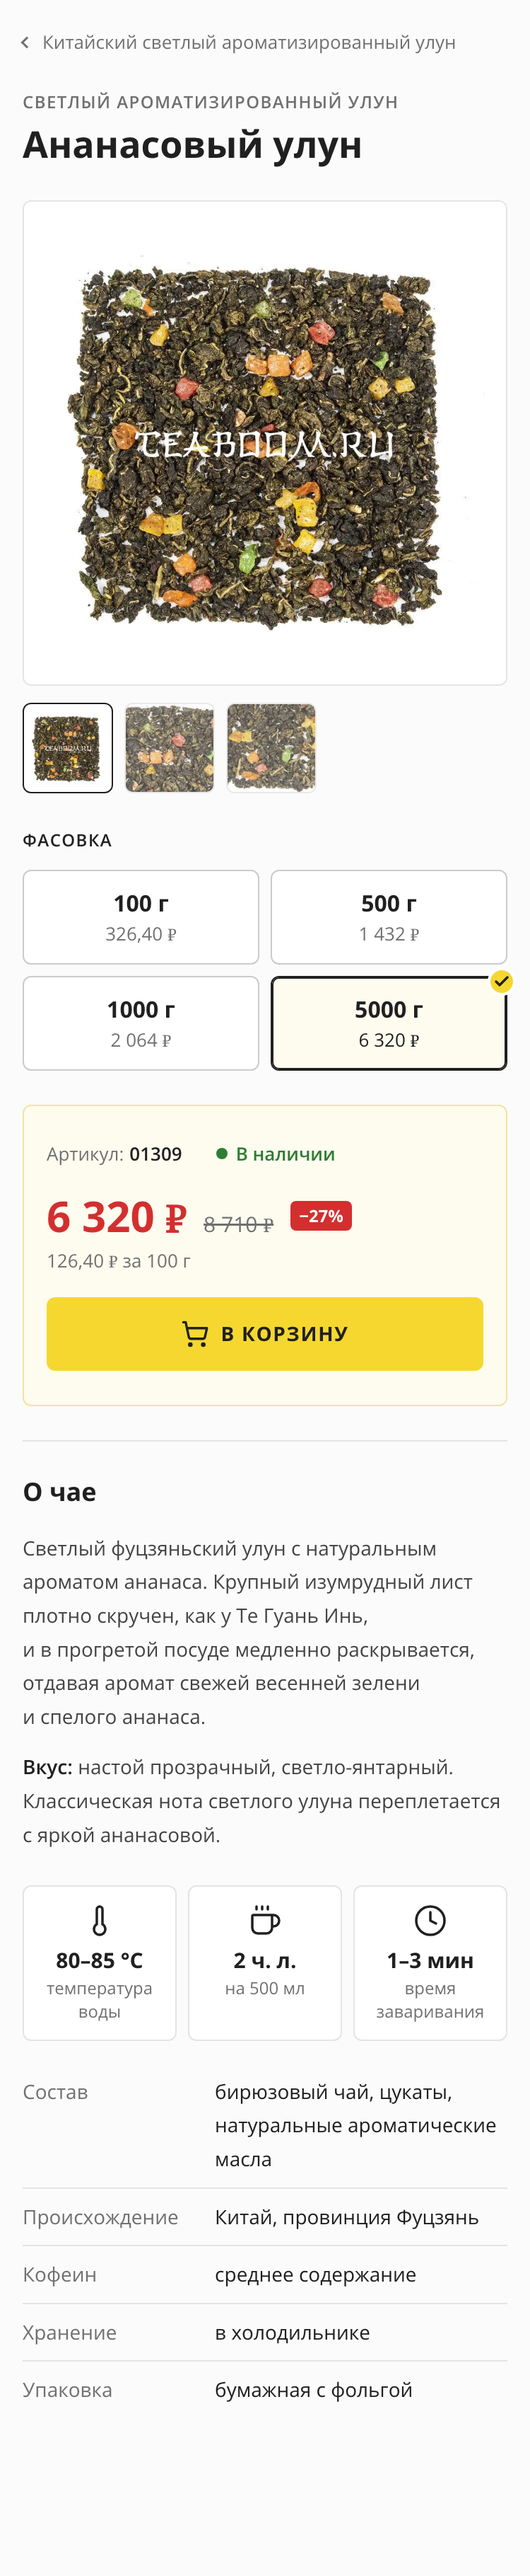
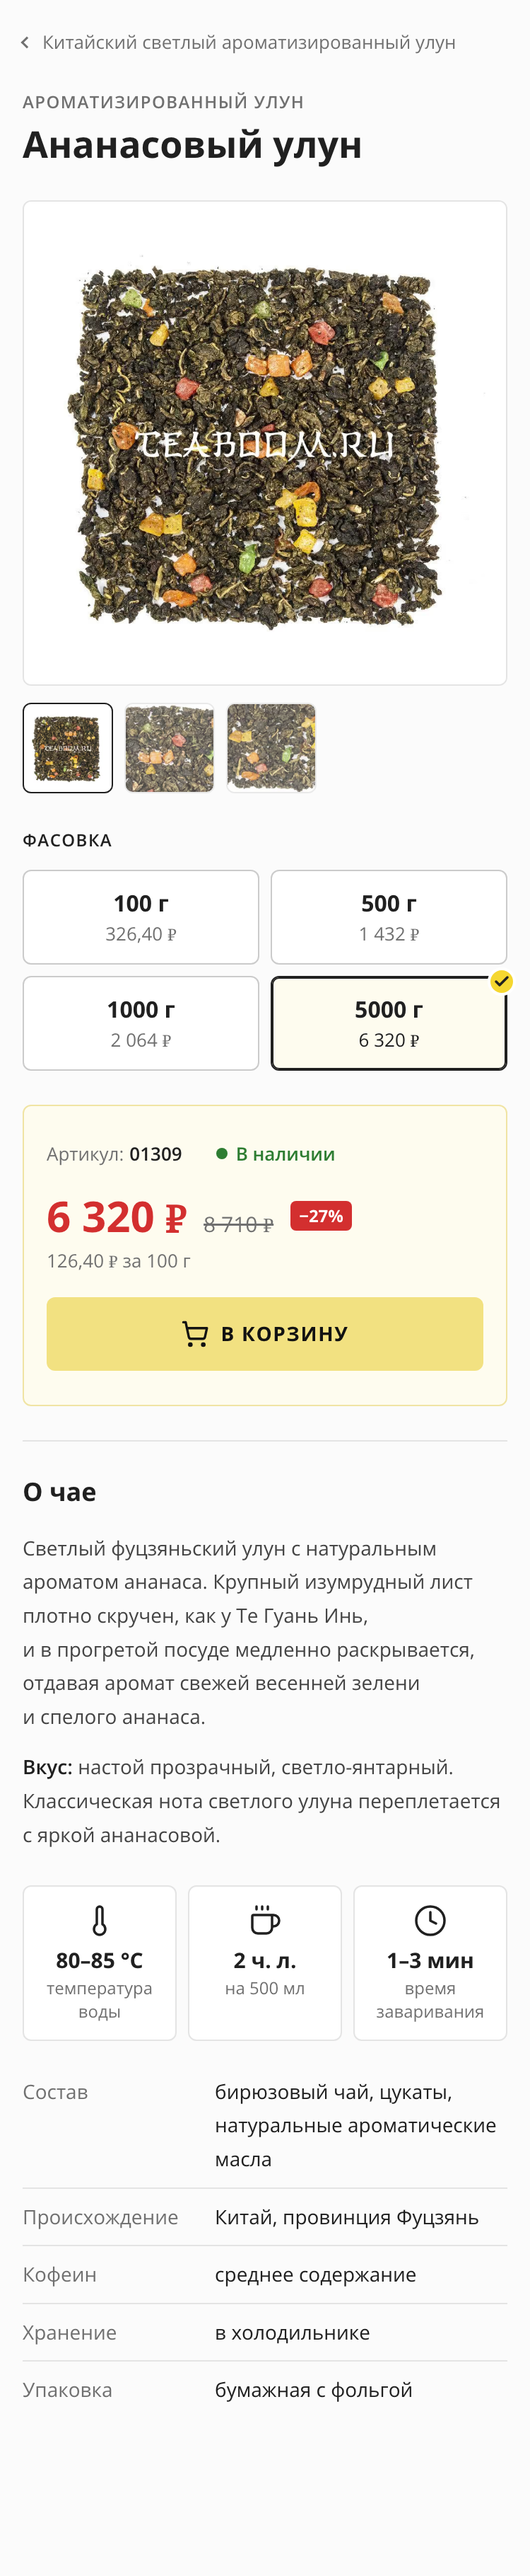
Категория товара как на сайте, увеличена зона нажатия ссылки

Changed region(s): [[0.092, 0.4967, 0.92, 0.5588], [0.276, 0.031, 0.3067, 0.0621], [0.184, 0.031, 0.2147, 0.0621]]

diff --git a/index.html b/index.html
@@ -59,7 +59,7 @@
 
         <article class="product" aria-labelledby="product-title">
           <header class="product__header">
-            <a class="product__category" href="#">Светлый ароматизированный улун</a>
+            <a class="product__category" href="#">Ароматизированный улун</a>
             <h1 class="product__title" id="product-title">Ананасовый улун</h1>
           </header>
 

diff --git a/src/scss/components/_product.scss b/src/scss/components/_product.scss
@@ -34,9 +34,11 @@
   grid-area: header;
 }
 
+// Отступы увеличивают зону нажатия до ~26 px, не сдвигая текст
 .product__category {
   display: inline-block;
-  margin-bottom: $space-1;
+  padding-block: $space-1;
+  margin-block: (-$space-1) 0;
   font-size: 12px;
   font-weight: $font-weight-semibold;
   line-height: 1.5;
